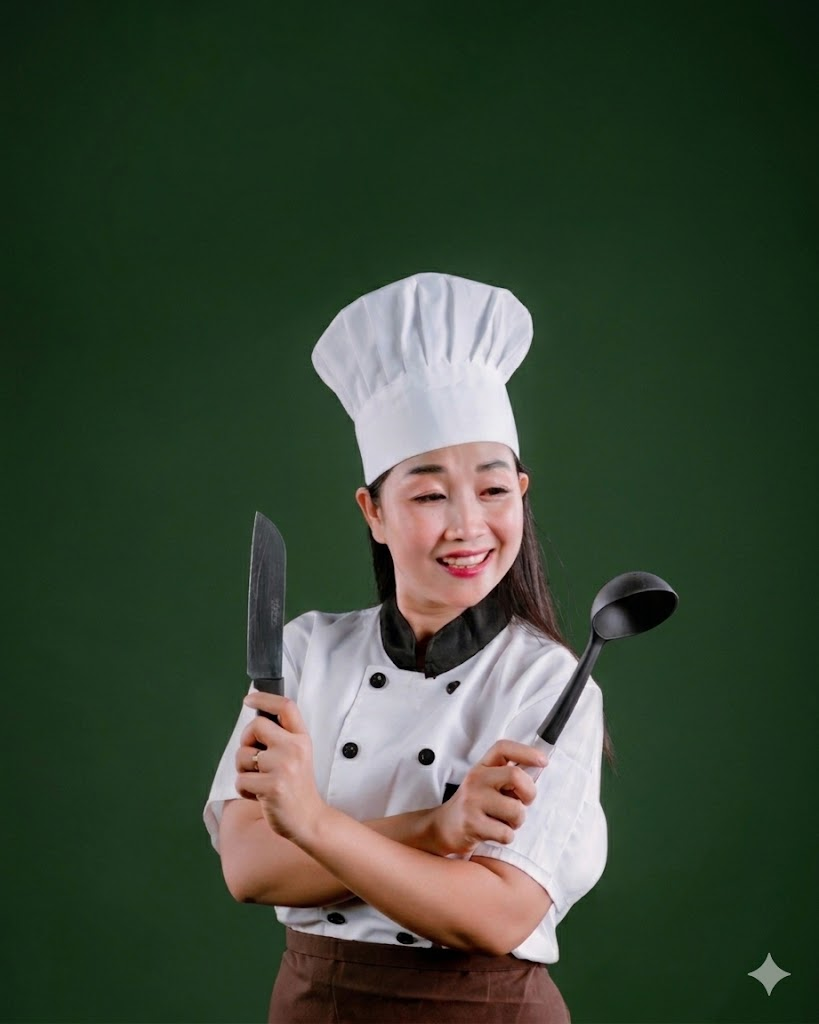
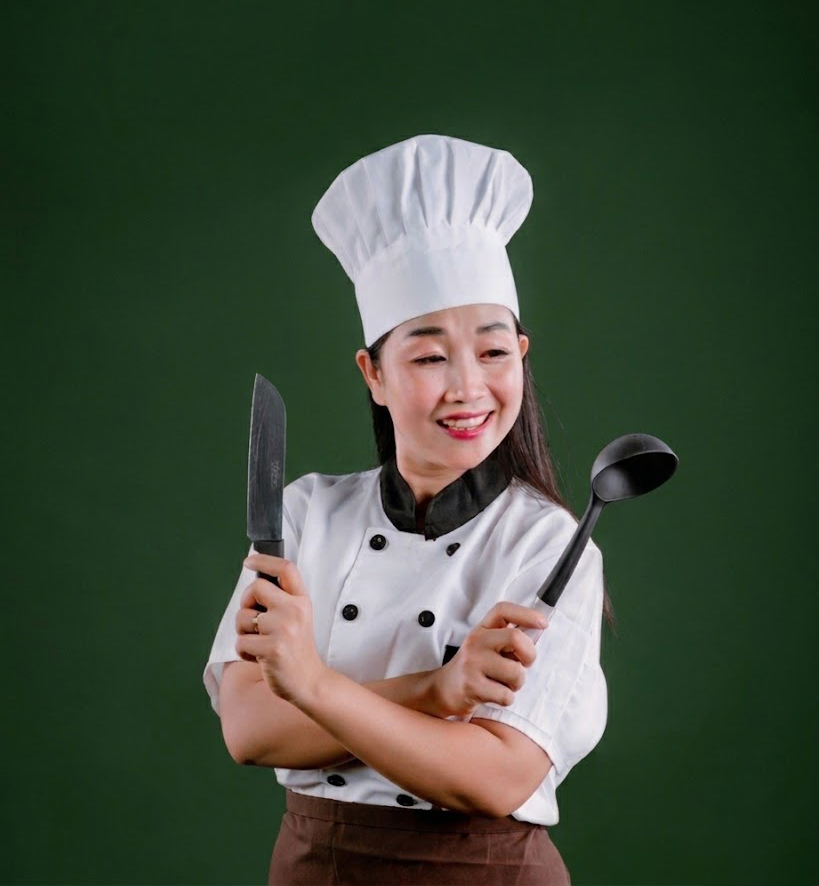
Cooking Class

Changed region(s): [[0.2442, 0.1524, 0.8242, 0.9752], [0.9158, 0.9142, 0.9768, 0.9752], [0.3663, 0.9447, 0.3968, 0.9752]]

diff --git a/src/app/components/CookingClasses.tsx b/src/app/components/CookingClasses.tsx
@@ -1,0 +1,94 @@
+import { BookOpen, Sparkles, CalendarDays } from "lucide-react";
+
+export function CookingClasses() {
+  return (
+    <section
+      id="cooking-classes"
+      className="py-20 bg-gradient-to-br from-white via-emerald-50 to-teal-50"
+    >
+      <div className="max-w-7xl mx-auto px-4 sm:px-6 lg:px-8">
+        <div className="text-center mb-16">
+          <p className="inline-flex items-center justify-center gap-2 rounded-full bg-green-500/10 px-5 py-2 text-sm font-semibold text-emerald-700 shadow-sm ring-1 ring-green-200">
+            <Sparkles className="w-5 h-5" />
+            New: Founder-led cooking classes
+          </p>
+          <h2 className="mt-6 text-4xl md:text-5xl font-bold text-emerald-950">
+            Learn to cook with Chanlang
+          </h2>
+          <p className="mt-4 text-lg text-gray-700 max-w-2xl mx-auto leading-relaxed">
+            Join our founder for hands-on vegetarian cooking classes that bring
+            Cambodian flavors home. Discover techniques, recipes, and kitchen
+            confidence in every session.
+          </p>
+        </div>
+
+        <div className="grid gap-10 lg:grid-cols-2 items-center">
+          <div className="space-y-6">
+            <div className="rounded-3xl bg-white shadow-2xl shadow-emerald-200/30 p-8 border border-emerald-100">
+              <div className="flex items-center gap-4 mb-4 text-emerald-800">
+                <BookOpen className="w-8 h-8" />
+                <div>
+                  <h3 className="text-xl font-semibold">What you'll learn</h3>
+                  <p className="text-sm text-gray-500">
+                    Plant-based Cambodian dishes, flavor building, and plating tips.
+                  </p>
+                </div>
+              </div>
+              <ul className="space-y-3 text-gray-700">
+                <li>• Fresh recipe walkthroughs from our founder</li>
+                <li>• Small groups for a personal experience</li>
+                <li>• Tips for cooking at home with seasonal ingredients</li>
+              </ul>
+            </div>
+
+            <div className="rounded-3xl bg-white shadow-2xl shadow-emerald-200/30 p-8 border border-emerald-100">
+              <div className="flex items-center gap-4 mb-4 text-emerald-800">
+                <CalendarDays className="w-8 h-8" />
+                <div>
+                  <h3 className="text-xl font-semibold">Next sessions</h3>
+                  <p className="text-sm text-gray-500">
+                    Weekly classes with a new recipe each month and seasonal menu updates.
+                  </p>
+                </div>
+              </div>
+              <p className="text-gray-700 leading-relaxed">
+                Reserve your spot to cook alongside Chanlang and learn how to make
+                delicious plant-based meals, perfect for home or special occasions.
+              </p>
+            </div>
+          </div>
+
+          <div className="rounded-[2rem] overflow-hidden bg-emerald-950 text-white shadow-2xl shadow-emerald-300/20">
+            <div className="bg-gradient-to-br from-emerald-700 to-teal-600 px-8 py-10">
+              <p className="text-sm uppercase tracking-[0.35em] text-emerald-200">
+                Founder Cooking Class</p>
+              <h3 className="mt-4 text-3xl font-bold">Cook with Chanlang</h3>
+              <p className="mt-4 text-base text-emerald-100 leading-relaxed">
+                Join a limited-seat workshop where the founder teaches signature
+                Cambodian vegetarian recipes, kitchen shortcuts, and the stories
+                behind each dish.
+              </p>
+            </div>
+            <div className="px-8 py-8 bg-emerald-950">
+              <div className="rounded-3xl bg-white/10 p-6 border border-white/10">
+                <p className="text-sm uppercase tracking-[0.2em] text-emerald-200">
+                  Class highlights</p>
+                <ol className="mt-4 space-y-3 text-sm text-emerald-100 leading-relaxed">
+                  <li>1. Fresh ingredients and plant-based techniques</li>
+                  <li>2. Cambodian staple recipes made easy</li>
+                  <li>3. Personalized guidance from the founder</li>
+                </ol>
+              </div>
+              <button
+                type="button"
+                className="mt-8 w-full rounded-3xl bg-white px-6 py-4 text-sm font-bold uppercase tracking-[0.08em] text-emerald-950 shadow-xl transition hover:-translate-y-0.5 hover:bg-emerald-100"
+              >
+                Reserve a spot
+              </button>
+            </div>
+          </div>
+        </div>
+      </div>
+    </section>
+  );
+}

diff --git a/src/app/components/Hero.tsx b/src/app/components/Hero.tsx
@@ -79,7 +79,7 @@ export function Hero() {
               onClick={scrollToMenu}
               className="group relative bg-gradient-to-r from-green-500 via-emerald-500 to-teal-500 hover:from-green-600 hover:via-emerald-600 hover:to-teal-600 text-white px-10 py-5 rounded-2xl text-lg font-black flex items-center justify-center gap-3 transition-all transform hover:scale-105 shadow-2xl hover:shadow-green-500/50"
             >
-              <span>Explore Menu</span>
+              <span>Order Now</span>
               <ArrowRight className="w-6 h-6 group-hover:translate-x-1 transition-transform" />
               <div className="absolute inset-0 rounded-2xl bg-white/20 opacity-0 group-hover:opacity-100 transition-opacity"></div>
             </button>
@@ -109,7 +109,7 @@ export function Hero() {
           </div>
 
           {/* Floating Cards */}
-          <div className="absolute -bottom-5 left-0 sm:-bottom-8 sm:-left-8 bg-white rounded-2xl shadow-2xl p-3 sm:p-4 max-w-[14rem] sm:max-w-xs transform hover:scale-105 transition-transform">
+          <div className="absolute -bottom-5 -left-2 sm:-bottom-8 sm:-left-8 bg-white rounded-2xl shadow-2xl p-3 sm:p-4 max-w-[14rem] sm:max-w-xs transform hover:scale-105 transition-transform">
             <div className="flex items-center gap-3">
               <div className="bg-gradient-to-br from-green-500 to-emerald-600 p-3 rounded-xl">
                 <Leaf className="w-6 h-6 text-white" />
@@ -125,7 +125,7 @@ export function Hero() {
             </div>
           </div>
 
-          <div className="absolute -top-5 right-0 sm:-top-8 sm:-right-8 bg-gradient-to-br from-amber-400 to-orange-500 rounded-2xl shadow-2xl p-3 sm:p-4 max-w-[14rem] sm:max-w-xs transform hover:scale-105 transition-transform">
+          <div className="absolute -top-5 -right-2 sm:-top-8 sm:-right-8 bg-gradient-to-br from-amber-400 to-orange-500 rounded-2xl shadow-2xl p-3 sm:p-4 max-w-[14rem] sm:max-w-xs transform hover:scale-105 transition-transform">
             <div className="flex items-center gap-2 text-white">
               <Star className="w-5 h-5 fill-white" />
               <span className="font-black text-base sm:text-lg">

diff --git a/src/app/App.tsx b/src/app/App.tsx
@@ -3,6 +3,7 @@ import { Navigation } from './components/Navigation';
 import { Hero } from './components/Hero';
 import { About } from './components/About';
 import { Founder } from './components/Founder';
+import { CookingClasses } from './components/CookingClasses';
 import { Menu } from './components/Menu';
 import { Benefits } from './components/Benefits';
 import { Products } from './components/Products';
@@ -18,6 +19,7 @@ export default function App() {
         <Hero />
         <About />
         <Founder />
+        <CookingClasses />
         <Menu />
         <Benefits />
         <Products />

diff --git a/src/app/components/Founder.tsx b/src/app/components/Founder.tsx
@@ -87,7 +87,7 @@ export function Founder() {
               <img
                 src={ChanlangPrumImage}
                 alt="Chanlang Prum - Founder of GoGreen"
-                className="relative w-full h-[1000px] object-cover rounded-2xl shadow-2xl"
+                className="relative w-full h-[900px] w-[900x] object-cover rounded-2xl shadow-2xl"
               />
             </div>
           </div>
